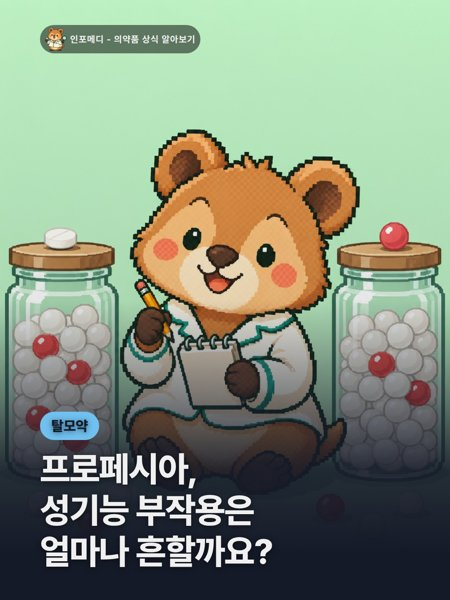
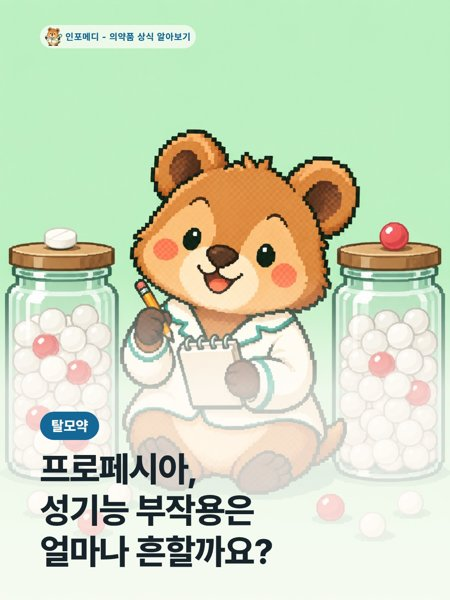
links

diff --git a/index.html b/index.html
@@ -34,7 +34,7 @@
 <section class="section">
 <h2>의약품 정보 <small id="count"></small></h2>
 <div class="grid" id="list">
-<a class="item" href="https://blog.naver.com/info_medi_/224422847574"><img src="c/프로페시아-white.jpg" alt="" loading="lazy">
+<a class="item" href="https://blog.naver.com/info_medi_/224422847574"><img src="c/프로페시아.jpg" alt="" loading="lazy">
 <span><b>프로페시아, 성기능 부작용은 얼마나 흔할까요?</b><small><time datetime="2026-10-01 07:50"></time></small></span></a>
 <a class="item" href="https://blog.naver.com/info_medi_/224422847425"><img src="c/우레아.jpg" alt="" loading="lazy">
 <span><b>우레아, 풋크림도 약국 크림과 같은 약일까요?</b><small><time datetime="2026-09-30 14:09"></time></small></span></a>
